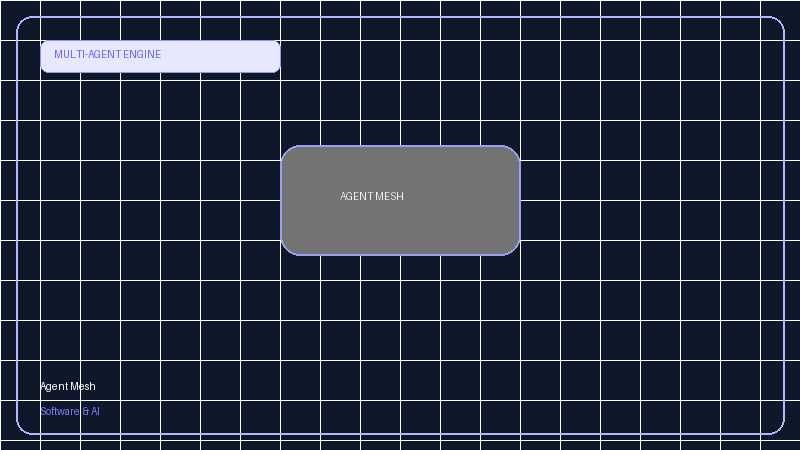
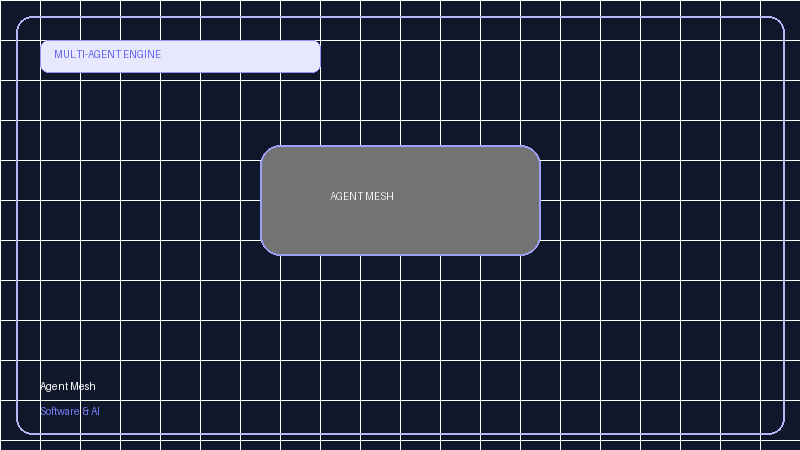
Add 5 grant-eligible AI engines to portfolio showcase

diff --git a/add_tools_to_portfolio.py b/add_tools_to_portfolio.py
@@ -68,6 +68,66 @@ PROJECTS_DATA = [
         "accent_color": (6, 182, 212),
         "tag": "OSINT & RECONNAISSANCE",
         "icon_label": "IPLOC"
+    },
+    {
+        "title": "AgentLedger — Cryptographic Action Attestation & Governance",
+        "category": "AI Safety & Governance",
+        "client": "Open Source / SatiraLabs",
+        "description": "Cryptographic action attestation, SHA-256 Merkle audit trail, and zero-trust execution guardrails for autonomous AI agent tool execution.",
+        "video_url": "https://github.com/abenih/agent-ledger",
+        "thumb_file": "projects/thumbnails/thumb_agent_ledger.png",
+        "bg_color": (17, 24, 39),
+        "accent_color": (59, 130, 246),
+        "tag": "AI SAFETY & MERKLE AUDIT",
+        "icon_label": "AGENTLEDGER"
+    },
+    {
+        "title": "DialectMesh — Edge Semantic Router for Low-Resource Languages",
+        "category": "Edge AI & NLP",
+        "client": "Open Source / SatiraLabs",
+        "description": "Offline-first edge semantic router & NLU engine for Amharic, Afaan Oromo, and Kiswahili mapping vernacular queries to structured tool dispatch.",
+        "video_url": "https://github.com/abenih/dialect-mesh",
+        "thumb_file": "projects/thumbnails/thumb_dialect_mesh.png",
+        "bg_color": (20, 26, 15),
+        "accent_color": (34, 197, 94),
+        "tag": "OFFLINE-FIRST NLU",
+        "icon_label": "DIALECTMESH"
+    },
+    {
+        "title": "SovereignSentinel — Verifiable OSINT & Fact Graph Engine",
+        "category": "OSINT & Civic Tech",
+        "client": "Open Source / SatiraLabs",
+        "description": "Verifiable OSINT and counter-disinformation knowledge graph engine with tamper-proof source lineage and belief propagation.",
+        "video_url": "https://github.com/abenih/sovereign-sentinel",
+        "thumb_file": "projects/thumbnails/thumb_sovereign_sentinel.png",
+        "bg_color": (24, 18, 33),
+        "accent_color": (168, 85, 247),
+        "tag": "PROVENANCE GRAPH",
+        "icon_label": "SENTINEL"
+    },
+    {
+        "title": "EdgeStream AI — Low-Resource Computer Vision & Event Trigger",
+        "category": "Edge Computer Vision",
+        "client": "Open Source / SatiraLabs",
+        "description": "Ultra-low-resource computer vision and motion activity engine running under 15MB RAM on edge CPUs with instant webhook alerts.",
+        "video_url": "https://github.com/abenih/edge-stream-ai",
+        "thumb_file": "projects/thumbnails/thumb_edge_stream_ai.png",
+        "bg_color": (28, 20, 14),
+        "accent_color": (245, 158, 11),
+        "tag": "ZERO-GPU STREAM CV",
+        "icon_label": "EDGESTREAM"
+    },
+    {
+        "title": "ProvableFair AI — Algorithmic Fairness & Audit Sandbox",
+        "category": "Algorithmic Transparency",
+        "client": "Open Source / SatiraLabs",
+        "description": "Algorithmic fairness evaluation sandbox and cryptographic commit-reveal verification framework for digital decision systems.",
+        "video_url": "https://github.com/abenih/provable-fair-ai",
+        "thumb_file": "projects/thumbnails/thumb_provable_fair_ai.png",
+        "bg_color": (14, 28, 36),
+        "accent_color": (6, 182, 212),
+        "tag": "MATHEMATICAL FAIRNESS",
+        "icon_label": "PROVABLEFAIR"
     }
 ]
 
@@ -87,12 +147,12 @@ def create_thumbnail(item):
     draw.rounded_rectangle([(16, 16), (w - 16, h - 16)], radius=16, outline=acc + (120,), width=2)
 
     # Badge pill top-left
-    draw.rounded_rectangle([(40, 40), (280, 72)], radius=8, fill=acc + (40,), outline=acc + (180,), width=1)
+    draw.rounded_rectangle([(40, 40), (320, 72)], radius=8, fill=acc + (40,), outline=acc + (180,), width=1)
     draw.text((54, 48), item["tag"], fill=acc + (255,))
 
     # Main Card Symbol
-    draw.rounded_rectangle([(w // 2 - 120, h // 2 - 80), (w // 2 + 120, h // 2 + 30)], radius=20, fill=(0, 0, 0, 140), outline=acc + (160,), width=2)
-    draw.text((w // 2 - 60, h // 2 - 35), item["icon_label"], fill=(255, 255, 255, 240))
+    draw.rounded_rectangle([(w // 2 - 140, h // 2 - 80), (w // 2 + 140, h // 2 + 30)], radius=20, fill=(0, 0, 0, 140), outline=acc + (160,), width=2)
+    draw.text((w // 2 - 70, h // 2 - 35), item["icon_label"], fill=(255, 255, 255, 240))
 
     # Title bottom
     draw.text((40, h - 70), item["title"].split(" — ")[0], fill=(255, 255, 255, 240))
